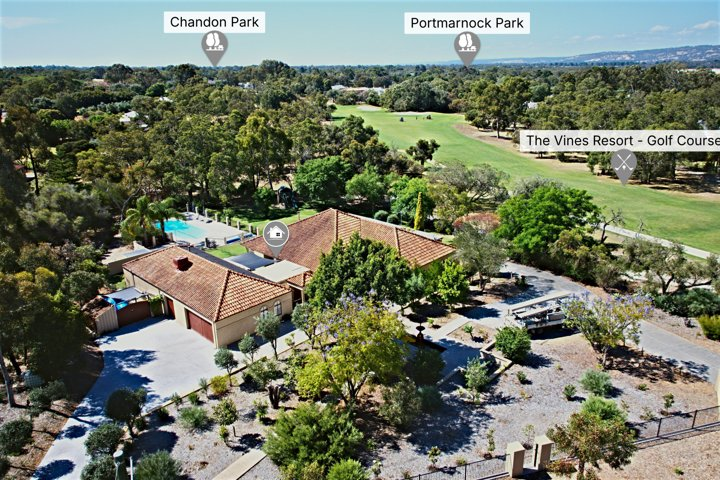
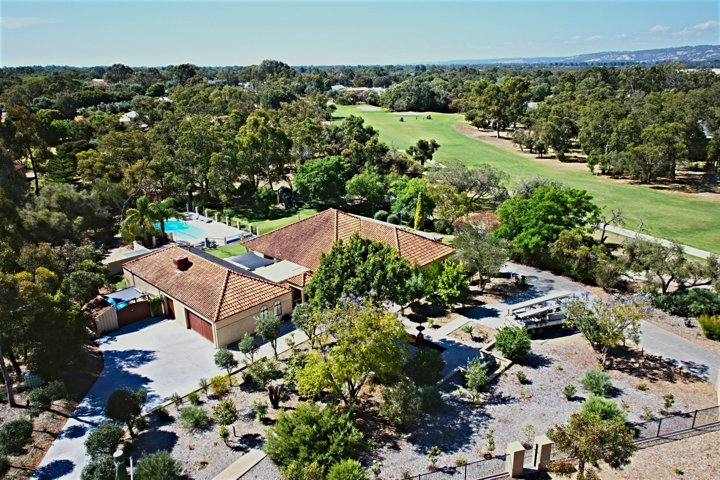
29 Hermitage reshoot: remove pins
Claude-Session: https://claude.ai/code/session_016Dz5F9bg2qyiekL9JCs1yM

diff --git a/aerials/03-nov-2026/index.html b/aerials/03-nov-2026/index.html
@@ -5,4 +5,4 @@ body{margin:0;background:var(--bg);color:var(--fg);font:15px/1.45 system-ui,-app
 header,section{max-width:1400px;margin:auto;padding:18px 16px}h1{font-size:20px;margin:0}h2{font-size:17px;margin:0}header p,section p{color:var(--mut);margin:4px 0 0}
 .ed{margin-left:10px;color:var(--acc);font-weight:600;text-decoration:none}a{color:var(--acc)}
 .chk{margin-top:10px}.chk summary{cursor:pointer;color:var(--mut);font-weight:600}.chk iframe{width:100%;height:420px;border:0;border-radius:6px;margin-top:6px;background:#111}.g{display:grid;grid-template-columns:repeat(auto-fill,minmax(280px,1fr));gap:8px;margin-top:10px}.g img{width:100%;display:block;border-radius:4px}</style></head>
-<body><header><h1>Drone edits — Tue 3 Nov 2026</h1><p>Tap a photo for full size. <b>Edit</b> opens the job in the <a href="/pins/">editor</a> with all its pins and settings.</p></header><section><h2>9 Flora Ave, Bayswater WA 6053</h2><p>Nic Pulvirenti · Professionals TWT · 10 photos (top-downs first) <a class="ed" href="/pins/?open=03-nov-2026/9_flora_ave">Edit</a><a class="ed" href="/lots/?img=/aerials/03-nov-2026/9_flora_ave/src/dji_fly_20261103_134902_0154_1793704059788_photo_r180.jpg&street=Flora%20Avenue" target="_blank">Lots</a><a class="ed" href="9_flora_ave/check.html" target="_blank">Check map</a></p><div class="g"><a href="9_flora_ave/9_flora_ave_potential_lots.jpg" target="_blank"><img loading="lazy" src="9_flora_ave/t/9_flora_ave_potential_lots.jpg" alt="Potential 2 lots"></a><a href="9_flora_ave/dji_fly_20261103_134902_0154_1793704059788_photo_r180.jpg?v=1793738739" target="_blank"><img loading="lazy" src="9_flora_ave/t/dji_fly_20261103_134902_0154_1793704059788_photo_r180.jpg?v=1793738739" alt=""></a><a href="9_flora_ave/dji_fly_20261103_134846_0153_1793704060458_photo.jpg?v=1793738739" target="_blank"><img loading="lazy" src="9_flora_ave/t/dji_fly_20261103_134846_0153_1793704060458_photo.jpg?v=1793738739" alt=""></a><a href="9_flora_ave/dji_fly_20261103_134944_0155_1793704059138_photo.jpg?v=1793738739" target="_blank"><img loading="lazy" src="9_flora_ave/t/dji_fly_20261103_134944_0155_1793704059138_photo.jpg?v=1793738739" alt=""></a><a href="9_flora_ave/dji_fly_20261103_135010_0156_1793704058395_photo.jpg?v=1793738739" target="_blank"><img loading="lazy" src="9_flora_ave/t/dji_fly_20261103_135010_0156_1793704058395_photo.jpg?v=1793738739" alt=""></a><a href="9_flora_ave/dji_fly_20261103_135034_0157_1793704057626_photo.jpg?v=1793738739" target="_blank"><img loading="lazy" src="9_flora_ave/t/dji_fly_20261103_135034_0157_1793704057626_photo.jpg?v=1793738739" alt=""></a><a href="9_flora_ave/dji_fly_20261103_135056_0158_1793704056929_photo.jpg?v=1793738739" target="_blank"><img loading="lazy" src="9_flora_ave/t/dji_fly_20261103_135056_0158_1793704056929_photo.jpg?v=1793738739" alt=""></a><a href="9_flora_ave/dji_fly_20261103_135130_0159_1793704056232_photo.jpg?v=1793738739" target="_blank"><img loading="lazy" src="9_flora_ave/t/dji_fly_20261103_135130_0159_1793704056232_photo.jpg?v=1793738739" alt=""></a><a href="9_flora_ave/dji_fly_20261103_135156_0160_1793704055554_photo.jpg?v=1793738739" target="_blank"><img loading="lazy" src="9_flora_ave/t/dji_fly_20261103_135156_0160_1793704055554_photo.jpg?v=1793738739" alt=""></a><a href="9_flora_ave/dji_fly_20261103_135226_0161_1793704054720_photo.jpg?v=1793738739" target="_blank"><img loading="lazy" src="9_flora_ave/t/dji_fly_20261103_135226_0161_1793704054720_photo.jpg?v=1793738739" alt=""></a><a href="9_flora_ave/dji_fly_20261103_135250_0162_1793704053535_photo.jpg?v=1793738739" target="_blank"><img loading="lazy" src="9_flora_ave/t/dji_fly_20261103_135250_0162_1793704053535_photo.jpg?v=1793738739" alt=""></a></div><details class="chk" open><summary>Quick check — boundary + 15 pinned places</summary><iframe loading="lazy" src="9_flora_ave/check.html?v=1793738740" title="Boundary and places check"></iframe></details></section><section><h2>SEND TO EDITOR — sun-facing aerials 0165/0168/0171/0172 have a white haze band on the horizon and the CBD towers in 0168 are ghosted · 1 Mills Ave, Bayswater WA 6053</h2><p>Nic Pulvirenti · Professionals TWT · 10 photos (top-downs first) <a class="ed" href="/pins/?open=03-nov-2026/1_mills_ave">Edit</a><a class="ed" href="/lots/?img=/aerials/03-nov-2026/1_mills_ave/src/dji_fly_20261103_172728_0163_1793704052722_photo_r270.jpg&street=Mills%20Avenue" target="_blank">Lots</a><a class="ed" href="1_mills_ave/check.html" target="_blank">Check map</a></p><div class="g"><a href="1_mills_ave/dji_fly_20261103_172728_0163_1793704052722_photo_r270.jpg?v=1793738746" target="_blank"><img loading="lazy" src="1_mills_ave/t/dji_fly_20261103_172728_0163_1793704052722_photo_r270.jpg?v=1793738746" alt=""></a><a href="1_mills_ave/dji_fly_20261103_172806_0164_1793704051892_photo_r180.jpg?v=1793738746" target="_blank"><img loading="lazy" src="1_mills_ave/t/dji_fly_20261103_172806_0164_1793704051892_photo_r180.jpg?v=1793738746" alt=""></a><a href="1_mills_ave/dji_fly_20261103_172846_0165_1793704051117_photo.jpg?v=1793738746" target="_blank"><img loading="lazy" src="1_mills_ave/t/dji_fly_20261103_172846_0165_1793704051117_photo.jpg?v=1793738746" alt=""></a><a href="1_mills_ave/dji_fly_20261103_172926_0166_1793704050054_photo.jpg?v=1793738746" target="_blank"><img loading="lazy" src="1_mills_ave/t/dji_fly_20261103_172926_0166_1793704050054_photo.jpg?v=1793738746" alt=""></a><a href="1_mills_ave/dji_fly_20261103_173000_0167_1793704048747_photo.jpg?v=1793738746" target="_blank"><img loading="lazy" src="1_mills_ave/t/dji_fly_20261103_173000_0167_1793704048747_photo.jpg?v=1793738746" alt=""></a><a href="1_mills_ave/dji_fly_20261103_173028_0168_1793704047325_photo.jpg?v=1793738746" target="_blank"><img loading="lazy" src="1_mills_ave/t/dji_fly_20261103_173028_0168_1793704047325_photo.jpg?v=1793738746" alt=""></a><a href="1_mills_ave/dji_fly_20261103_173056_0169_1793704045824_photo.jpg?v=1793738746" target="_blank"><img loading="lazy" src="1_mills_ave/t/dji_fly_20261103_173056_0169_1793704045824_photo.jpg?v=1793738746" alt=""></a><a href="1_mills_ave/dji_fly_20261103_173128_0170_1793704044668_photo.jpg?v=1793738746" target="_blank"><img loading="lazy" src="1_mills_ave/t/dji_fly_20261103_173128_0170_1793704044668_photo.jpg?v=1793738746" alt=""></a><a href="1_mills_ave/dji_fly_20261103_173156_0171_1793704043395_photo.jpg?v=1793738746" target="_blank"><img loading="lazy" src="1_mills_ave/t/dji_fly_20261103_173156_0171_1793704043395_photo.jpg?v=1793738746" alt=""></a><a href="1_mills_ave/dji_fly_20261103_173232_0172_1793704041907_photo.jpg?v=1793738746" target="_blank"><img loading="lazy" src="1_mills_ave/t/dji_fly_20261103_173232_0172_1793704041907_photo.jpg?v=1793738746" alt=""></a></div><details class="chk" open><summary>Quick check — boundary + 16 pinned places</summary><iframe loading="lazy" src="1_mills_ave/check.html?v=1793738748" title="Boundary and places check"></iframe></details></section><section><h2>SEND TO EDITOR — no lot boundary · 17 Titanium Blvd, Cockburn Central WA 6164</h2><p>Amelié Blanco Bernabeu · Raspa · 10 photos (top-downs first) <a class="ed" href="/pins/?open=03-nov-2026/17_titanium_blvd">Edit</a><a class="ed" href="/lots/?img=/aerials/03-nov-2026/17_titanium_blvd/src/dji_fly_20261103_114026_0971_1793704935082_photo_r90.jpg&street=Titanium%20Blvd" target="_blank">Lots</a><a class="ed" href="17_titanium_blvd/check.html" target="_blank">Check map</a></p><div class="g"><a href="17_titanium_blvd/dji_fly_20261103_114026_0971_1793704935082_photo_r90.jpg?v=1793738755" target="_blank"><img loading="lazy" src="17_titanium_blvd/t/dji_fly_20261103_114026_0971_1793704935082_photo_r90.jpg?v=1793738755" alt=""></a><a href="17_titanium_blvd/dji_fly_20261103_113914_0966_1793704941294_photo.jpg?v=1793738755" target="_blank"><img loading="lazy" src="17_titanium_blvd/t/dji_fly_20261103_113914_0966_1793704941294_photo.jpg?v=1793738755" alt=""></a><a href="17_titanium_blvd/dji_fly_20261103_114050_0972_1793704933836_photo.jpg?v=1793738755" target="_blank"><img loading="lazy" src="17_titanium_blvd/t/dji_fly_20261103_114050_0972_1793704933836_photo.jpg?v=1793738755" alt=""></a><a href="17_titanium_blvd/dji_fly_20261103_114104_0973_1793704932587_photo.jpg?v=1793738755" target="_blank"><img loading="lazy" src="17_titanium_blvd/t/dji_fly_20261103_114104_0973_1793704932587_photo.jpg?v=1793738755" alt=""></a><a href="17_titanium_blvd/dji_fly_20261103_114132_0974_1793704931230_photo.jpg?v=1793738755" target="_blank"><img loading="lazy" src="17_titanium_blvd/t/dji_fly_20261103_114132_0974_1793704931230_photo.jpg?v=1793738755" alt=""></a><a href="17_titanium_blvd/dji_fly_20261103_114226_0975_1793704929941_photo.jpg?v=1793738755" target="_blank"><img loading="lazy" src="17_titanium_blvd/t/dji_fly_20261103_114226_0975_1793704929941_photo.jpg?v=1793738755" alt=""></a><a href="17_titanium_blvd/dji_fly_20261103_114250_0976_1793704928621_photo.jpg?v=1793738755" target="_blank"><img loading="lazy" src="17_titanium_blvd/t/dji_fly_20261103_114250_0976_1793704928621_photo.jpg?v=1793738755" alt=""></a><a href="17_titanium_blvd/dji_fly_20261103_114306_0977_1793704927328_photo.jpg?v=1793738755" target="_blank"><img loading="lazy" src="17_titanium_blvd/t/dji_fly_20261103_114306_0977_1793704927328_photo.jpg?v=1793738755" alt=""></a><a href="17_titanium_blvd/dji_fly_20261103_114318_0978_1793704926019_photo.jpg?v=1793738755" target="_blank"><img loading="lazy" src="17_titanium_blvd/t/dji_fly_20261103_114318_0978_1793704926019_photo.jpg?v=1793738755" alt=""></a><a href="17_titanium_blvd/dji_fly_20261103_114330_0979_1793704924754_photo.jpg?v=1793738755" target="_blank"><img loading="lazy" src="17_titanium_blvd/t/dji_fly_20261103_114330_0979_1793704924754_photo.jpg?v=1793738755" alt=""></a></div><details class="chk" open><summary>Quick check — boundary + 15 pinned places</summary><iframe loading="lazy" src="17_titanium_blvd/check.html?v=1793738758" title="Boundary and places check"></iframe></details></section><section><h2>19 Joondanna Dr, Joondanna WA 6060</h2><p>Dante Holdsworth · Holdsworth · 10 photos (top-downs first) <a class="ed" href="/pins/?open=03-nov-2026/19_joondanna_dr">Edit</a><a class="ed" href="/lots/?img=/aerials/03-nov-2026/19_joondanna_dr/src/dji_fly_20261103_171736_0982_1793704919527_photo.jpg&street=Joondanna%20Drive" target="_blank">Lots</a><a class="ed" href="19_joondanna_dr/check.html" target="_blank">Check map</a></p><div class="g"><a href="19_joondanna_dr/dji_fly_20261103_171736_0982_1793704919527_photo.jpg?v=1793738765" target="_blank"><img loading="lazy" src="19_joondanna_dr/t/dji_fly_20261103_171736_0982_1793704919527_photo.jpg?v=1793738765" alt=""></a><a href="19_joondanna_dr/dji_fly_20261103_171724_0981_1793704921863_photo.jpg?v=1793738765" target="_blank"><img loading="lazy" src="19_joondanna_dr/t/dji_fly_20261103_171724_0981_1793704921863_photo.jpg?v=1793738765" alt=""></a><a href="19_joondanna_dr/dji_fly_20261103_171826_0983_1793704918083_photo.jpg?v=1793738765" target="_blank"><img loading="lazy" src="19_joondanna_dr/t/dji_fly_20261103_171826_0983_1793704918083_photo.jpg?v=1793738765" alt=""></a><a href="19_joondanna_dr/dji_fly_20261103_171840_0984_1793704916672_photo.jpg?v=1793738765" target="_blank"><img loading="lazy" src="19_joondanna_dr/t/dji_fly_20261103_171840_0984_1793704916672_photo.jpg?v=1793738765" alt=""></a><a href="19_joondanna_dr/dji_fly_20261103_171854_0985_1793704915183_photo.jpg?v=1793738765" target="_blank"><img loading="lazy" src="19_joondanna_dr/t/dji_fly_20261103_171854_0985_1793704915183_photo.jpg?v=1793738765" alt=""></a><a href="19_joondanna_dr/dji_fly_20261103_171906_0986_1793704913711_photo.jpg?v=1793738765" target="_blank"><img loading="lazy" src="19_joondanna_dr/t/dji_fly_20261103_171906_0986_1793704913711_photo.jpg?v=1793738765" alt=""></a><a href="19_joondanna_dr/dji_fly_20261103_171930_0987_1793704912295_photo.jpg?v=1793738765" target="_blank"><img loading="lazy" src="19_joondanna_dr/t/dji_fly_20261103_171930_0987_1793704912295_photo.jpg?v=1793738765" alt=""></a><a href="19_joondanna_dr/dji_fly_20261103_172004_0988_1793704910986_photo.jpg?v=1793738765" target="_blank"><img loading="lazy" src="19_joondanna_dr/t/dji_fly_20261103_172004_0988_1793704910986_photo.jpg?v=1793738765" alt=""></a><a href="19_joondanna_dr/dji_fly_20261103_172024_0989_1793704909586_photo.jpg?v=1793738765" target="_blank"><img loading="lazy" src="19_joondanna_dr/t/dji_fly_20261103_172024_0989_1793704909586_photo.jpg?v=1793738765" alt=""></a><a href="19_joondanna_dr/dji_fly_20261103_172042_0990_1793704908080_photo.jpg?v=1793738765" target="_blank"><img loading="lazy" src="19_joondanna_dr/t/dji_fly_20261103_172042_0990_1793704908080_photo.jpg?v=1793738765" alt=""></a></div><details class="chk" open><summary>Quick check — boundary + 19 pinned places</summary><iframe loading="lazy" src="19_joondanna_dr/check.html?v=1793738767" title="Boundary and places check"></iframe></details></section><section><h2>29 Hermitage Dr, The Vines WA 6069 — day reshoot 7 Nov 2026 (natural sky)</h2><p>Annique Woodford · Granger Clark · 5 photos (top-downs first) <a class="ed" href="/pins/?open=03-nov-2026/29_hermitage_dr">Edit</a><a class="ed" href="/lots/?img=/aerials/03-nov-2026/29_hermitage_dr/src/DJI_20261107175758_0060_D.jpg&street=Hermitage%20Drive" target="_blank">Lots</a><a class="ed" href="29_hermitage_dr/check.html" target="_blank">Check map</a></p><div class="g"><a href="29_hermitage_dr/DJI_20261107175758_0060_D.jpg?v=1794171965" target="_blank"><img loading="lazy" src="29_hermitage_dr/t/DJI_20261107175758_0060_D.jpg?v=1794171965" alt=""></a><a href="29_hermitage_dr/DJI_20261107175744_0059_D.jpg?v=1794171965" target="_blank"><img loading="lazy" src="29_hermitage_dr/t/DJI_20261107175744_0059_D.jpg?v=1794171965" alt=""></a><a href="29_hermitage_dr/DJI_20261107175429_0054_D.jpg?v=1794171965" target="_blank"><img loading="lazy" src="29_hermitage_dr/t/DJI_20261107175429_0054_D.jpg?v=1794171965" alt=""></a><a href="29_hermitage_dr/DJI_20261107175657_0057_D.jpg?v=1794171965" target="_blank"><img loading="lazy" src="29_hermitage_dr/t/DJI_20261107175657_0057_D.jpg?v=1794171965" alt=""></a><a href="29_hermitage_dr/DJI_20261107180236_0070_D.jpg?v=1794171965" target="_blank"><img loading="lazy" src="29_hermitage_dr/t/DJI_20261107180236_0070_D.jpg?v=1794171965" alt=""></a></div><details class="chk" open><summary>Quick check — boundary + 8 pinned places</summary><iframe loading="lazy" src="29_hermitage_dr/check.html?v=1793738770" title="Boundary and places check"></iframe></details></section><section><h2>SEND TO EDITOR — twilight frames · 29 Hermitage Dr, The Vines WA 6069</h2><p>Annique Woodford · Granger Clark · 2 photos <a class="ed" href="/pins/?open=03-nov-2026/29_hermitage_dr_twilight">Edit</a><a class="ed" href="/lots/?img=/aerials/03-nov-2026/29_hermitage_dr_twilight/src/DJI_20261103194003_0205_D.jpg&street=Hermitage%20Drive" target="_blank">Lots</a><a class="ed" href="29_hermitage_dr_twilight/check.html" target="_blank">Check map</a></p><div class="g"><a href="29_hermitage_dr_twilight/DJI_20261103194003_0205_D.jpg?v=1793738770" target="_blank"><img loading="lazy" src="29_hermitage_dr_twilight/t/DJI_20261103194003_0205_D.jpg?v=1793738770" alt=""></a><a href="29_hermitage_dr_twilight/DJI_20261103194018_0206_D.jpg?v=1793738770" target="_blank"><img loading="lazy" src="29_hermitage_dr_twilight/t/DJI_20261103194018_0206_D.jpg?v=1793738770" alt=""></a></div><details class="chk" open><summary>Quick check — boundary + 5 pinned places</summary><iframe loading="lazy" src="29_hermitage_dr_twilight/check.html?v=1793738771" title="Boundary and places check"></iframe></details></section><script src="../dl.js"></script></body></html>
+<body><header><h1>Drone edits — Tue 3 Nov 2026</h1><p>Tap a photo for full size. <b>Edit</b> opens the job in the <a href="/pins/">editor</a> with all its pins and settings.</p></header><section><h2>9 Flora Ave, Bayswater WA 6053</h2><p>Nic Pulvirenti · Professionals TWT · 10 photos (top-downs first) <a class="ed" href="/pins/?open=03-nov-2026/9_flora_ave">Edit</a><a class="ed" href="/lots/?img=/aerials/03-nov-2026/9_flora_ave/src/dji_fly_20261103_134902_0154_1793704059788_photo_r180.jpg&street=Flora%20Avenue" target="_blank">Lots</a><a class="ed" href="9_flora_ave/check.html" target="_blank">Check map</a></p><div class="g"><a href="9_flora_ave/9_flora_ave_potential_lots.jpg" target="_blank"><img loading="lazy" src="9_flora_ave/t/9_flora_ave_potential_lots.jpg" alt="Potential 2 lots"></a><a href="9_flora_ave/dji_fly_20261103_134902_0154_1793704059788_photo_r180.jpg?v=1793738739" target="_blank"><img loading="lazy" src="9_flora_ave/t/dji_fly_20261103_134902_0154_1793704059788_photo_r180.jpg?v=1793738739" alt=""></a><a href="9_flora_ave/dji_fly_20261103_134846_0153_1793704060458_photo.jpg?v=1793738739" target="_blank"><img loading="lazy" src="9_flora_ave/t/dji_fly_20261103_134846_0153_1793704060458_photo.jpg?v=1793738739" alt=""></a><a href="9_flora_ave/dji_fly_20261103_134944_0155_1793704059138_photo.jpg?v=1793738739" target="_blank"><img loading="lazy" src="9_flora_ave/t/dji_fly_20261103_134944_0155_1793704059138_photo.jpg?v=1793738739" alt=""></a><a href="9_flora_ave/dji_fly_20261103_135010_0156_1793704058395_photo.jpg?v=1793738739" target="_blank"><img loading="lazy" src="9_flora_ave/t/dji_fly_20261103_135010_0156_1793704058395_photo.jpg?v=1793738739" alt=""></a><a href="9_flora_ave/dji_fly_20261103_135034_0157_1793704057626_photo.jpg?v=1793738739" target="_blank"><img loading="lazy" src="9_flora_ave/t/dji_fly_20261103_135034_0157_1793704057626_photo.jpg?v=1793738739" alt=""></a><a href="9_flora_ave/dji_fly_20261103_135056_0158_1793704056929_photo.jpg?v=1793738739" target="_blank"><img loading="lazy" src="9_flora_ave/t/dji_fly_20261103_135056_0158_1793704056929_photo.jpg?v=1793738739" alt=""></a><a href="9_flora_ave/dji_fly_20261103_135130_0159_1793704056232_photo.jpg?v=1793738739" target="_blank"><img loading="lazy" src="9_flora_ave/t/dji_fly_20261103_135130_0159_1793704056232_photo.jpg?v=1793738739" alt=""></a><a href="9_flora_ave/dji_fly_20261103_135156_0160_1793704055554_photo.jpg?v=1793738739" target="_blank"><img loading="lazy" src="9_flora_ave/t/dji_fly_20261103_135156_0160_1793704055554_photo.jpg?v=1793738739" alt=""></a><a href="9_flora_ave/dji_fly_20261103_135226_0161_1793704054720_photo.jpg?v=1793738739" target="_blank"><img loading="lazy" src="9_flora_ave/t/dji_fly_20261103_135226_0161_1793704054720_photo.jpg?v=1793738739" alt=""></a><a href="9_flora_ave/dji_fly_20261103_135250_0162_1793704053535_photo.jpg?v=1793738739" target="_blank"><img loading="lazy" src="9_flora_ave/t/dji_fly_20261103_135250_0162_1793704053535_photo.jpg?v=1793738739" alt=""></a></div><details class="chk" open><summary>Quick check — boundary + 15 pinned places</summary><iframe loading="lazy" src="9_flora_ave/check.html?v=1793738740" title="Boundary and places check"></iframe></details></section><section><h2>SEND TO EDITOR — sun-facing aerials 0165/0168/0171/0172 have a white haze band on the horizon and the CBD towers in 0168 are ghosted · 1 Mills Ave, Bayswater WA 6053</h2><p>Nic Pulvirenti · Professionals TWT · 10 photos (top-downs first) <a class="ed" href="/pins/?open=03-nov-2026/1_mills_ave">Edit</a><a class="ed" href="/lots/?img=/aerials/03-nov-2026/1_mills_ave/src/dji_fly_20261103_172728_0163_1793704052722_photo_r270.jpg&street=Mills%20Avenue" target="_blank">Lots</a><a class="ed" href="1_mills_ave/check.html" target="_blank">Check map</a></p><div class="g"><a href="1_mills_ave/dji_fly_20261103_172728_0163_1793704052722_photo_r270.jpg?v=1793738746" target="_blank"><img loading="lazy" src="1_mills_ave/t/dji_fly_20261103_172728_0163_1793704052722_photo_r270.jpg?v=1793738746" alt=""></a><a href="1_mills_ave/dji_fly_20261103_172806_0164_1793704051892_photo_r180.jpg?v=1793738746" target="_blank"><img loading="lazy" src="1_mills_ave/t/dji_fly_20261103_172806_0164_1793704051892_photo_r180.jpg?v=1793738746" alt=""></a><a href="1_mills_ave/dji_fly_20261103_172846_0165_1793704051117_photo.jpg?v=1793738746" target="_blank"><img loading="lazy" src="1_mills_ave/t/dji_fly_20261103_172846_0165_1793704051117_photo.jpg?v=1793738746" alt=""></a><a href="1_mills_ave/dji_fly_20261103_172926_0166_1793704050054_photo.jpg?v=1793738746" target="_blank"><img loading="lazy" src="1_mills_ave/t/dji_fly_20261103_172926_0166_1793704050054_photo.jpg?v=1793738746" alt=""></a><a href="1_mills_ave/dji_fly_20261103_173000_0167_1793704048747_photo.jpg?v=1793738746" target="_blank"><img loading="lazy" src="1_mills_ave/t/dji_fly_20261103_173000_0167_1793704048747_photo.jpg?v=1793738746" alt=""></a><a href="1_mills_ave/dji_fly_20261103_173028_0168_1793704047325_photo.jpg?v=1793738746" target="_blank"><img loading="lazy" src="1_mills_ave/t/dji_fly_20261103_173028_0168_1793704047325_photo.jpg?v=1793738746" alt=""></a><a href="1_mills_ave/dji_fly_20261103_173056_0169_1793704045824_photo.jpg?v=1793738746" target="_blank"><img loading="lazy" src="1_mills_ave/t/dji_fly_20261103_173056_0169_1793704045824_photo.jpg?v=1793738746" alt=""></a><a href="1_mills_ave/dji_fly_20261103_173128_0170_1793704044668_photo.jpg?v=1793738746" target="_blank"><img loading="lazy" src="1_mills_ave/t/dji_fly_20261103_173128_0170_1793704044668_photo.jpg?v=1793738746" alt=""></a><a href="1_mills_ave/dji_fly_20261103_173156_0171_1793704043395_photo.jpg?v=1793738746" target="_blank"><img loading="lazy" src="1_mills_ave/t/dji_fly_20261103_173156_0171_1793704043395_photo.jpg?v=1793738746" alt=""></a><a href="1_mills_ave/dji_fly_20261103_173232_0172_1793704041907_photo.jpg?v=1793738746" target="_blank"><img loading="lazy" src="1_mills_ave/t/dji_fly_20261103_173232_0172_1793704041907_photo.jpg?v=1793738746" alt=""></a></div><details class="chk" open><summary>Quick check — boundary + 16 pinned places</summary><iframe loading="lazy" src="1_mills_ave/check.html?v=1793738748" title="Boundary and places check"></iframe></details></section><section><h2>SEND TO EDITOR — no lot boundary · 17 Titanium Blvd, Cockburn Central WA 6164</h2><p>Amelié Blanco Bernabeu · Raspa · 10 photos (top-downs first) <a class="ed" href="/pins/?open=03-nov-2026/17_titanium_blvd">Edit</a><a class="ed" href="/lots/?img=/aerials/03-nov-2026/17_titanium_blvd/src/dji_fly_20261103_114026_0971_1793704935082_photo_r90.jpg&street=Titanium%20Blvd" target="_blank">Lots</a><a class="ed" href="17_titanium_blvd/check.html" target="_blank">Check map</a></p><div class="g"><a href="17_titanium_blvd/dji_fly_20261103_114026_0971_1793704935082_photo_r90.jpg?v=1793738755" target="_blank"><img loading="lazy" src="17_titanium_blvd/t/dji_fly_20261103_114026_0971_1793704935082_photo_r90.jpg?v=1793738755" alt=""></a><a href="17_titanium_blvd/dji_fly_20261103_113914_0966_1793704941294_photo.jpg?v=1793738755" target="_blank"><img loading="lazy" src="17_titanium_blvd/t/dji_fly_20261103_113914_0966_1793704941294_photo.jpg?v=1793738755" alt=""></a><a href="17_titanium_blvd/dji_fly_20261103_114050_0972_1793704933836_photo.jpg?v=1793738755" target="_blank"><img loading="lazy" src="17_titanium_blvd/t/dji_fly_20261103_114050_0972_1793704933836_photo.jpg?v=1793738755" alt=""></a><a href="17_titanium_blvd/dji_fly_20261103_114104_0973_1793704932587_photo.jpg?v=1793738755" target="_blank"><img loading="lazy" src="17_titanium_blvd/t/dji_fly_20261103_114104_0973_1793704932587_photo.jpg?v=1793738755" alt=""></a><a href="17_titanium_blvd/dji_fly_20261103_114132_0974_1793704931230_photo.jpg?v=1793738755" target="_blank"><img loading="lazy" src="17_titanium_blvd/t/dji_fly_20261103_114132_0974_1793704931230_photo.jpg?v=1793738755" alt=""></a><a href="17_titanium_blvd/dji_fly_20261103_114226_0975_1793704929941_photo.jpg?v=1793738755" target="_blank"><img loading="lazy" src="17_titanium_blvd/t/dji_fly_20261103_114226_0975_1793704929941_photo.jpg?v=1793738755" alt=""></a><a href="17_titanium_blvd/dji_fly_20261103_114250_0976_1793704928621_photo.jpg?v=1793738755" target="_blank"><img loading="lazy" src="17_titanium_blvd/t/dji_fly_20261103_114250_0976_1793704928621_photo.jpg?v=1793738755" alt=""></a><a href="17_titanium_blvd/dji_fly_20261103_114306_0977_1793704927328_photo.jpg?v=1793738755" target="_blank"><img loading="lazy" src="17_titanium_blvd/t/dji_fly_20261103_114306_0977_1793704927328_photo.jpg?v=1793738755" alt=""></a><a href="17_titanium_blvd/dji_fly_20261103_114318_0978_1793704926019_photo.jpg?v=1793738755" target="_blank"><img loading="lazy" src="17_titanium_blvd/t/dji_fly_20261103_114318_0978_1793704926019_photo.jpg?v=1793738755" alt=""></a><a href="17_titanium_blvd/dji_fly_20261103_114330_0979_1793704924754_photo.jpg?v=1793738755" target="_blank"><img loading="lazy" src="17_titanium_blvd/t/dji_fly_20261103_114330_0979_1793704924754_photo.jpg?v=1793738755" alt=""></a></div><details class="chk" open><summary>Quick check — boundary + 15 pinned places</summary><iframe loading="lazy" src="17_titanium_blvd/check.html?v=1793738758" title="Boundary and places check"></iframe></details></section><section><h2>19 Joondanna Dr, Joondanna WA 6060</h2><p>Dante Holdsworth · Holdsworth · 10 photos (top-downs first) <a class="ed" href="/pins/?open=03-nov-2026/19_joondanna_dr">Edit</a><a class="ed" href="/lots/?img=/aerials/03-nov-2026/19_joondanna_dr/src/dji_fly_20261103_171736_0982_1793704919527_photo.jpg&street=Joondanna%20Drive" target="_blank">Lots</a><a class="ed" href="19_joondanna_dr/check.html" target="_blank">Check map</a></p><div class="g"><a href="19_joondanna_dr/dji_fly_20261103_171736_0982_1793704919527_photo.jpg?v=1793738765" target="_blank"><img loading="lazy" src="19_joondanna_dr/t/dji_fly_20261103_171736_0982_1793704919527_photo.jpg?v=1793738765" alt=""></a><a href="19_joondanna_dr/dji_fly_20261103_171724_0981_1793704921863_photo.jpg?v=1793738765" target="_blank"><img loading="lazy" src="19_joondanna_dr/t/dji_fly_20261103_171724_0981_1793704921863_photo.jpg?v=1793738765" alt=""></a><a href="19_joondanna_dr/dji_fly_20261103_171826_0983_1793704918083_photo.jpg?v=1793738765" target="_blank"><img loading="lazy" src="19_joondanna_dr/t/dji_fly_20261103_171826_0983_1793704918083_photo.jpg?v=1793738765" alt=""></a><a href="19_joondanna_dr/dji_fly_20261103_171840_0984_1793704916672_photo.jpg?v=1793738765" target="_blank"><img loading="lazy" src="19_joondanna_dr/t/dji_fly_20261103_171840_0984_1793704916672_photo.jpg?v=1793738765" alt=""></a><a href="19_joondanna_dr/dji_fly_20261103_171854_0985_1793704915183_photo.jpg?v=1793738765" target="_blank"><img loading="lazy" src="19_joondanna_dr/t/dji_fly_20261103_171854_0985_1793704915183_photo.jpg?v=1793738765" alt=""></a><a href="19_joondanna_dr/dji_fly_20261103_171906_0986_1793704913711_photo.jpg?v=1793738765" target="_blank"><img loading="lazy" src="19_joondanna_dr/t/dji_fly_20261103_171906_0986_1793704913711_photo.jpg?v=1793738765" alt=""></a><a href="19_joondanna_dr/dji_fly_20261103_171930_0987_1793704912295_photo.jpg?v=1793738765" target="_blank"><img loading="lazy" src="19_joondanna_dr/t/dji_fly_20261103_171930_0987_1793704912295_photo.jpg?v=1793738765" alt=""></a><a href="19_joondanna_dr/dji_fly_20261103_172004_0988_1793704910986_photo.jpg?v=1793738765" target="_blank"><img loading="lazy" src="19_joondanna_dr/t/dji_fly_20261103_172004_0988_1793704910986_photo.jpg?v=1793738765" alt=""></a><a href="19_joondanna_dr/dji_fly_20261103_172024_0989_1793704909586_photo.jpg?v=1793738765" target="_blank"><img loading="lazy" src="19_joondanna_dr/t/dji_fly_20261103_172024_0989_1793704909586_photo.jpg?v=1793738765" alt=""></a><a href="19_joondanna_dr/dji_fly_20261103_172042_0990_1793704908080_photo.jpg?v=1793738765" target="_blank"><img loading="lazy" src="19_joondanna_dr/t/dji_fly_20261103_172042_0990_1793704908080_photo.jpg?v=1793738765" alt=""></a></div><details class="chk" open><summary>Quick check — boundary + 19 pinned places</summary><iframe loading="lazy" src="19_joondanna_dr/check.html?v=1793738767" title="Boundary and places check"></iframe></details></section><section><h2>29 Hermitage Dr, The Vines WA 6069 — day reshoot 7 Nov 2026 (natural sky)</h2><p>Annique Woodford · Granger Clark · 5 photos (top-downs first) <a class="ed" href="/pins/?open=03-nov-2026/29_hermitage_dr">Edit</a><a class="ed" href="/lots/?img=/aerials/03-nov-2026/29_hermitage_dr/src/DJI_20261107175758_0060_D.jpg&street=Hermitage%20Drive" target="_blank">Lots</a><a class="ed" href="29_hermitage_dr/check.html" target="_blank">Check map</a></p><div class="g"><a href="29_hermitage_dr/DJI_20261107175758_0060_D.jpg?v=1794172109" target="_blank"><img loading="lazy" src="29_hermitage_dr/t/DJI_20261107175758_0060_D.jpg?v=1794172109" alt=""></a><a href="29_hermitage_dr/DJI_20261107175744_0059_D.jpg?v=1794172109" target="_blank"><img loading="lazy" src="29_hermitage_dr/t/DJI_20261107175744_0059_D.jpg?v=1794172109" alt=""></a><a href="29_hermitage_dr/DJI_20261107175429_0054_D.jpg?v=1794172109" target="_blank"><img loading="lazy" src="29_hermitage_dr/t/DJI_20261107175429_0054_D.jpg?v=1794172109" alt=""></a><a href="29_hermitage_dr/DJI_20261107175657_0057_D.jpg?v=1794172109" target="_blank"><img loading="lazy" src="29_hermitage_dr/t/DJI_20261107175657_0057_D.jpg?v=1794172109" alt=""></a><a href="29_hermitage_dr/DJI_20261107180236_0070_D.jpg?v=1794172109" target="_blank"><img loading="lazy" src="29_hermitage_dr/t/DJI_20261107180236_0070_D.jpg?v=1794172109" alt=""></a></div><details class="chk" open><summary>Quick check — boundary + 8 pinned places</summary><iframe loading="lazy" src="29_hermitage_dr/check.html?v=1793738770" title="Boundary and places check"></iframe></details></section><section><h2>SEND TO EDITOR — twilight frames · 29 Hermitage Dr, The Vines WA 6069</h2><p>Annique Woodford · Granger Clark · 2 photos <a class="ed" href="/pins/?open=03-nov-2026/29_hermitage_dr_twilight">Edit</a><a class="ed" href="/lots/?img=/aerials/03-nov-2026/29_hermitage_dr_twilight/src/DJI_20261103194003_0205_D.jpg&street=Hermitage%20Drive" target="_blank">Lots</a><a class="ed" href="29_hermitage_dr_twilight/check.html" target="_blank">Check map</a></p><div class="g"><a href="29_hermitage_dr_twilight/DJI_20261103194003_0205_D.jpg?v=1793738770" target="_blank"><img loading="lazy" src="29_hermitage_dr_twilight/t/DJI_20261103194003_0205_D.jpg?v=1793738770" alt=""></a><a href="29_hermitage_dr_twilight/DJI_20261103194018_0206_D.jpg?v=1793738770" target="_blank"><img loading="lazy" src="29_hermitage_dr_twilight/t/DJI_20261103194018_0206_D.jpg?v=1793738770" alt=""></a></div><details class="chk" open><summary>Quick check — boundary + 5 pinned places</summary><iframe loading="lazy" src="29_hermitage_dr_twilight/check.html?v=1793738771" title="Boundary and places check"></iframe></details></section><script src="../dl.js"></script></body></html>
